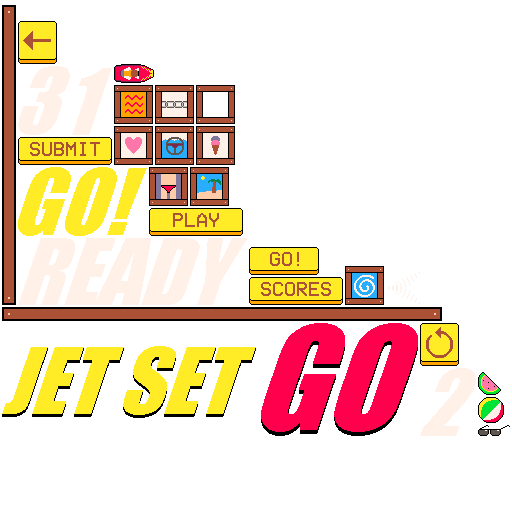
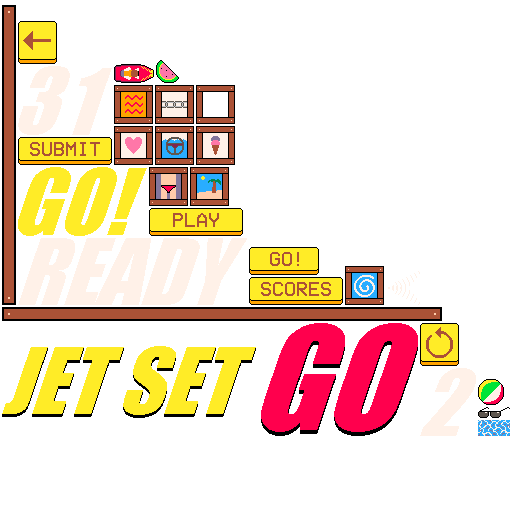
water

Changed region(s): [[0.9062, 0.7188, 1.0, 0.875], [0.2812, 0.125, 0.3438, 0.1875]]

diff --git a/core/src/main/java/com/distraction/jetsetgo/screens/PlayScreen.java b/core/src/main/java/com/distraction/jetsetgo/screens/PlayScreen.java
@@ -20,6 +20,7 @@ import com.distraction.jetsetgo.entity.Entity;
 import com.distraction.jetsetgo.entity.Particle;
 import com.distraction.jetsetgo.entity.Player;
 import com.distraction.jetsetgo.entity.TextEntity;
+import com.distraction.jetsetgo.entity.Water;
 
 import java.util.ArrayList;
 import java.util.HashMap;
@@ -69,6 +70,8 @@ public class PlayScreen extends Screen {
     private boolean abilityUsed;
     private float abilityTimer;
     private final TextEntity abilityText;
+
+    private final Water water;
 
     public PlayScreen(Context context) {
         super(context);
@@ -140,6 +143,8 @@ public class PlayScreen extends Screen {
                 collectibles.add(new Collectible(context, entry.getValue(), x, y));
             }
         }
+
+        water = new Water(context);
 
         context.audio.playMusic("bg", 0.3f, true);
     }
@@ -235,6 +240,10 @@ public class PlayScreen extends Screen {
         in.update(dt);
         out.update(dt);
 
+        water.update(dt);
+        water.x = -cam.position.x;
+        water.y = -cam.position.y;
+
         for (Countdown cd : countdowns) cd.update(dt);
 
         if (state == State.COUNTDOWN) {
@@ -312,6 +321,9 @@ public class PlayScreen extends Screen {
     public void render() {
         Utils.clearScreen(Constants.BLUE);
         sb.begin();
+
+        sb.setProjectionMatrix(uiCam.combined);
+        water.render(sb);
 
         sb.setProjectionMatrix(cam.combined);
         sb.setColor(1, 1, 1, 1);

diff --git a/core/src/main/java/com/distraction/jetsetgo/entity/Water.java b/core/src/main/java/com/distraction/jetsetgo/entity/Water.java
@@ -1,0 +1,43 @@
+package com.distraction.jetsetgo.entity;
+
+import com.badlogic.gdx.graphics.g2d.SpriteBatch;
+import com.distraction.jetsetgo.Animation;
+import com.distraction.jetsetgo.Constants;
+import com.distraction.jetsetgo.Context;
+
+public class Water extends Entity {
+
+    private static final int SIZE = 16;
+
+    private final Animation animation;
+    private final int numRows;
+    private final int numCols;
+
+    public Water(Context context) {
+        animation = new Animation(context.getImage("water").split(SIZE, SIZE)[0], 0.5f);
+        a = 0.2f;
+
+        numRows = Constants.HEIGHT / SIZE + 2;
+        numCols = Constants.WIDTH / SIZE + 2;
+    }
+
+    @Override
+    public void update(float dt) {
+        animation.update(dt);
+    }
+
+    @Override
+    public void render(SpriteBatch sb) {
+        sb.setColor(1, 1, 1, a);
+//        float startx = (x * SIZE) / SIZE - Constants.WIDTH / 2f;
+//        float starty = (y * SIZE) / SIZE - Constants.HEIGHT / 2f;
+        float startx = x % SIZE - SIZE;
+        float starty = y % SIZE - SIZE;
+        for (int row = 0; row < numRows; row++) {
+            for (int col = 0; col < numCols; col++) {
+                sb.draw(animation.getImage(), startx + col * SIZE, starty + row * SIZE);
+            }
+        }
+        sb.setColor(1, 1, 1, 1);
+    }
+}
